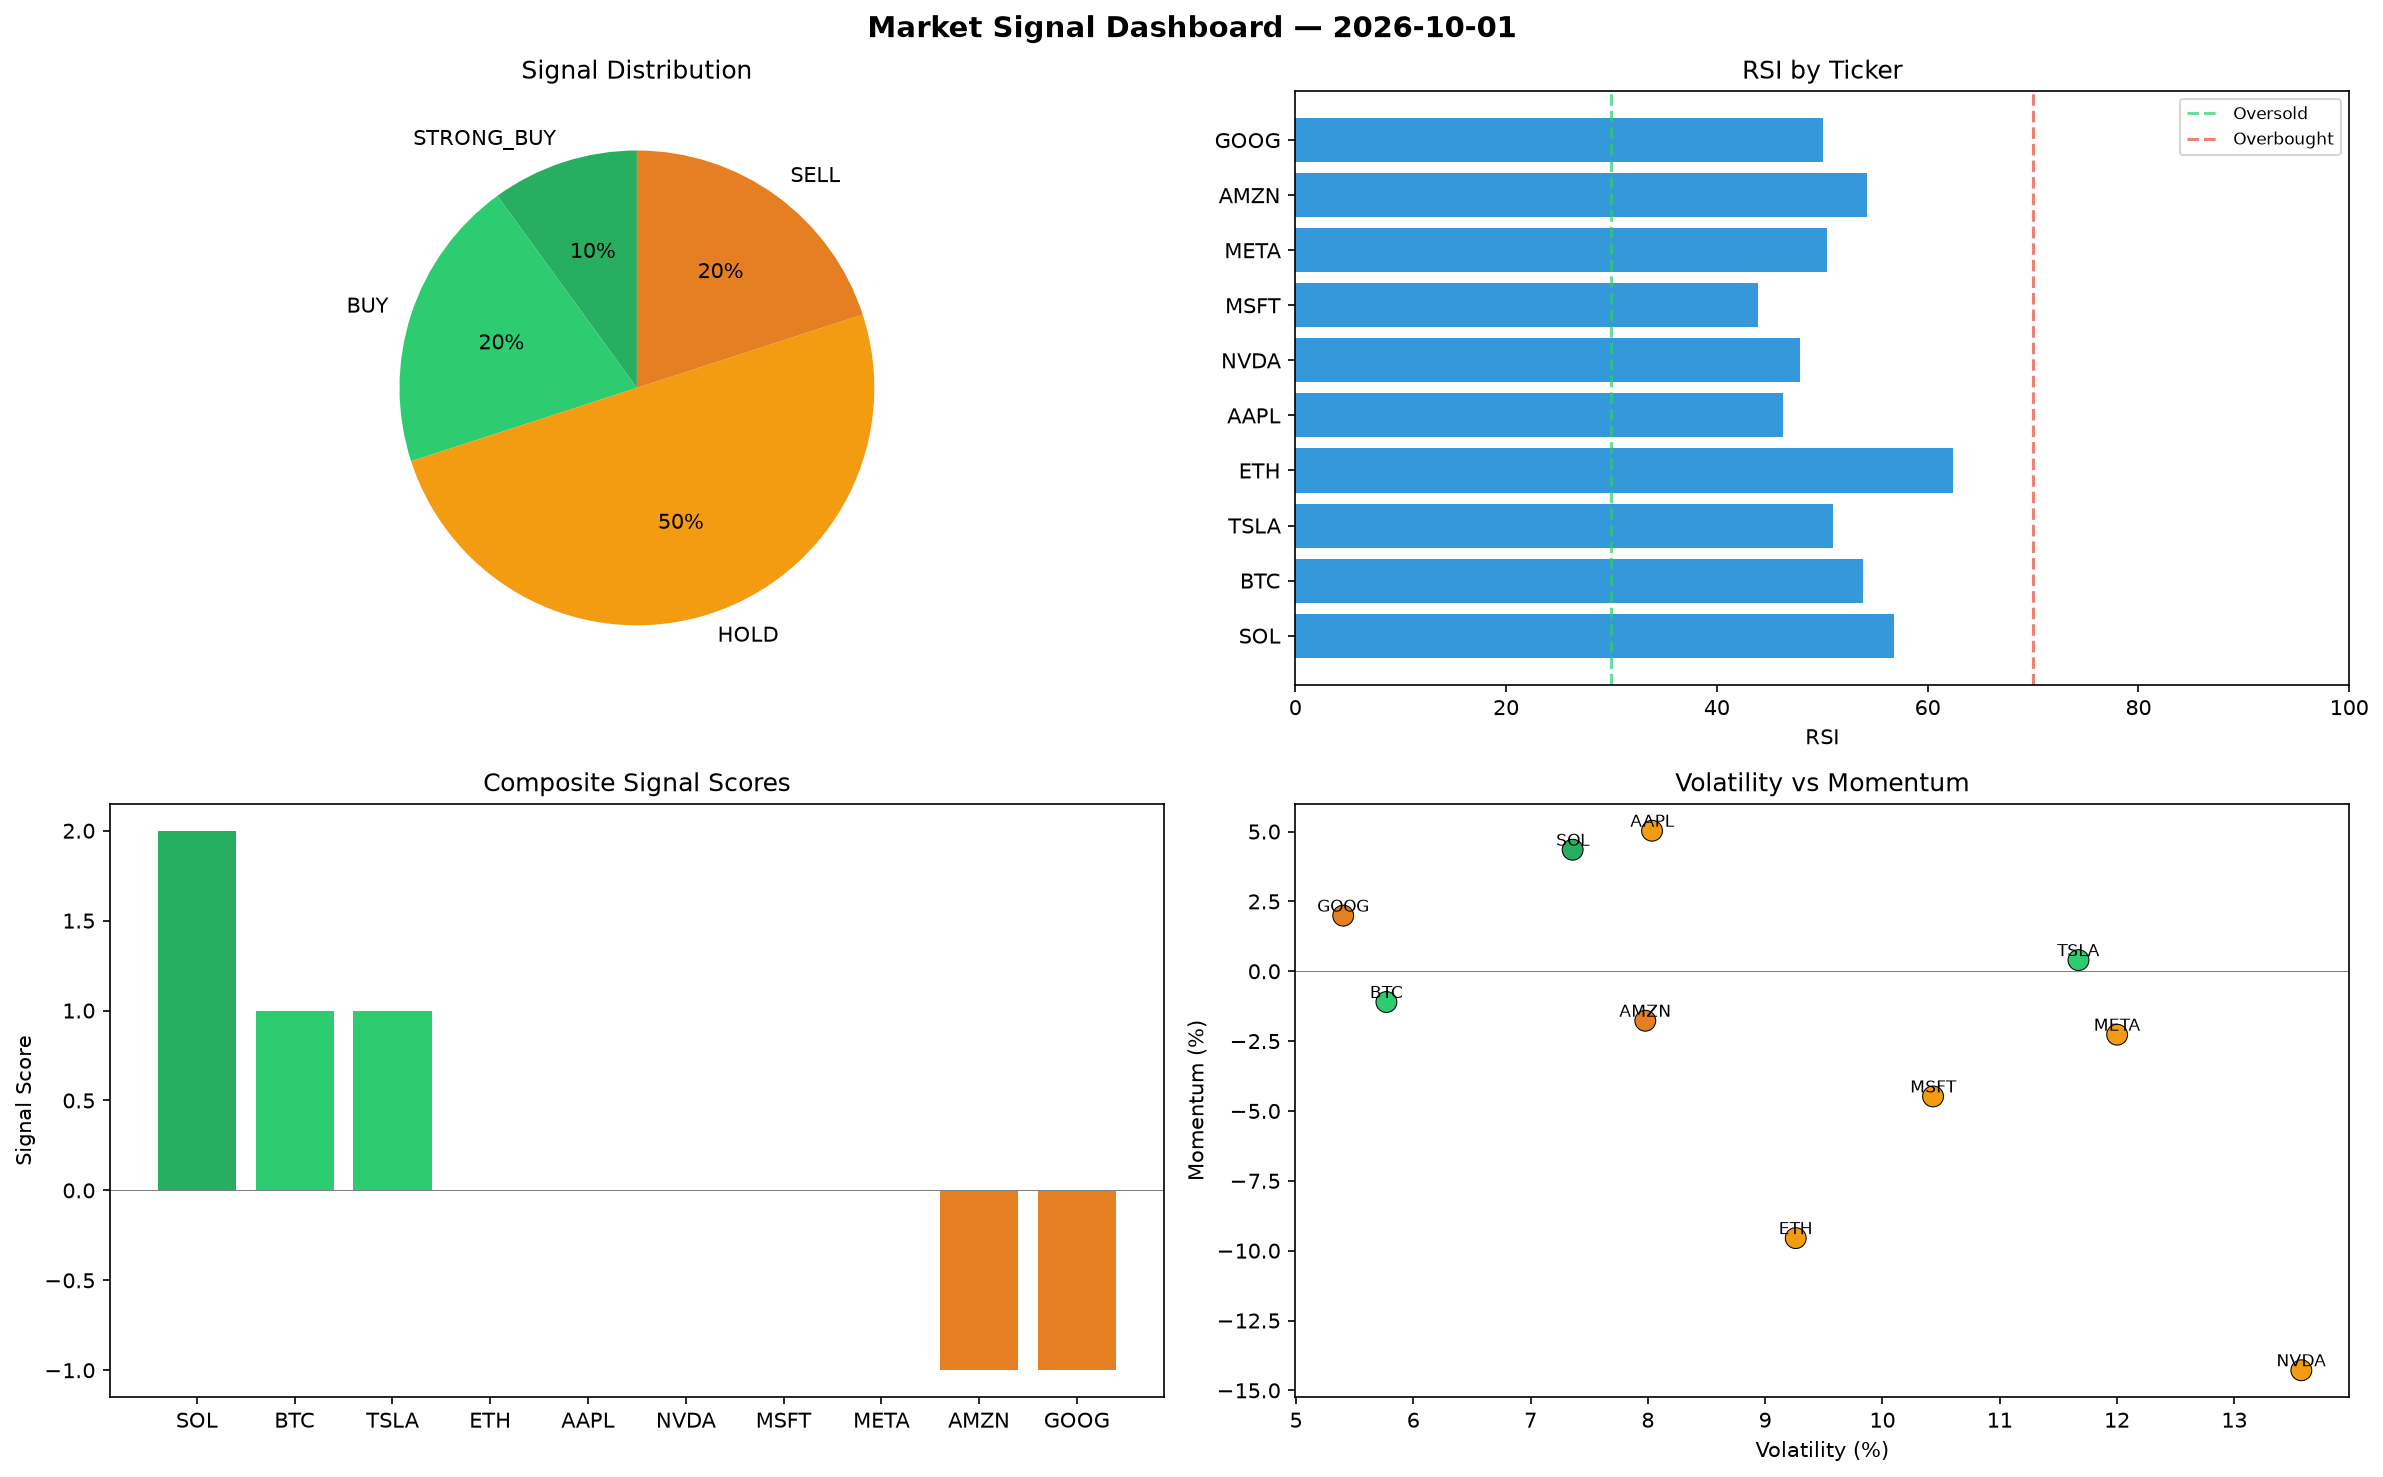
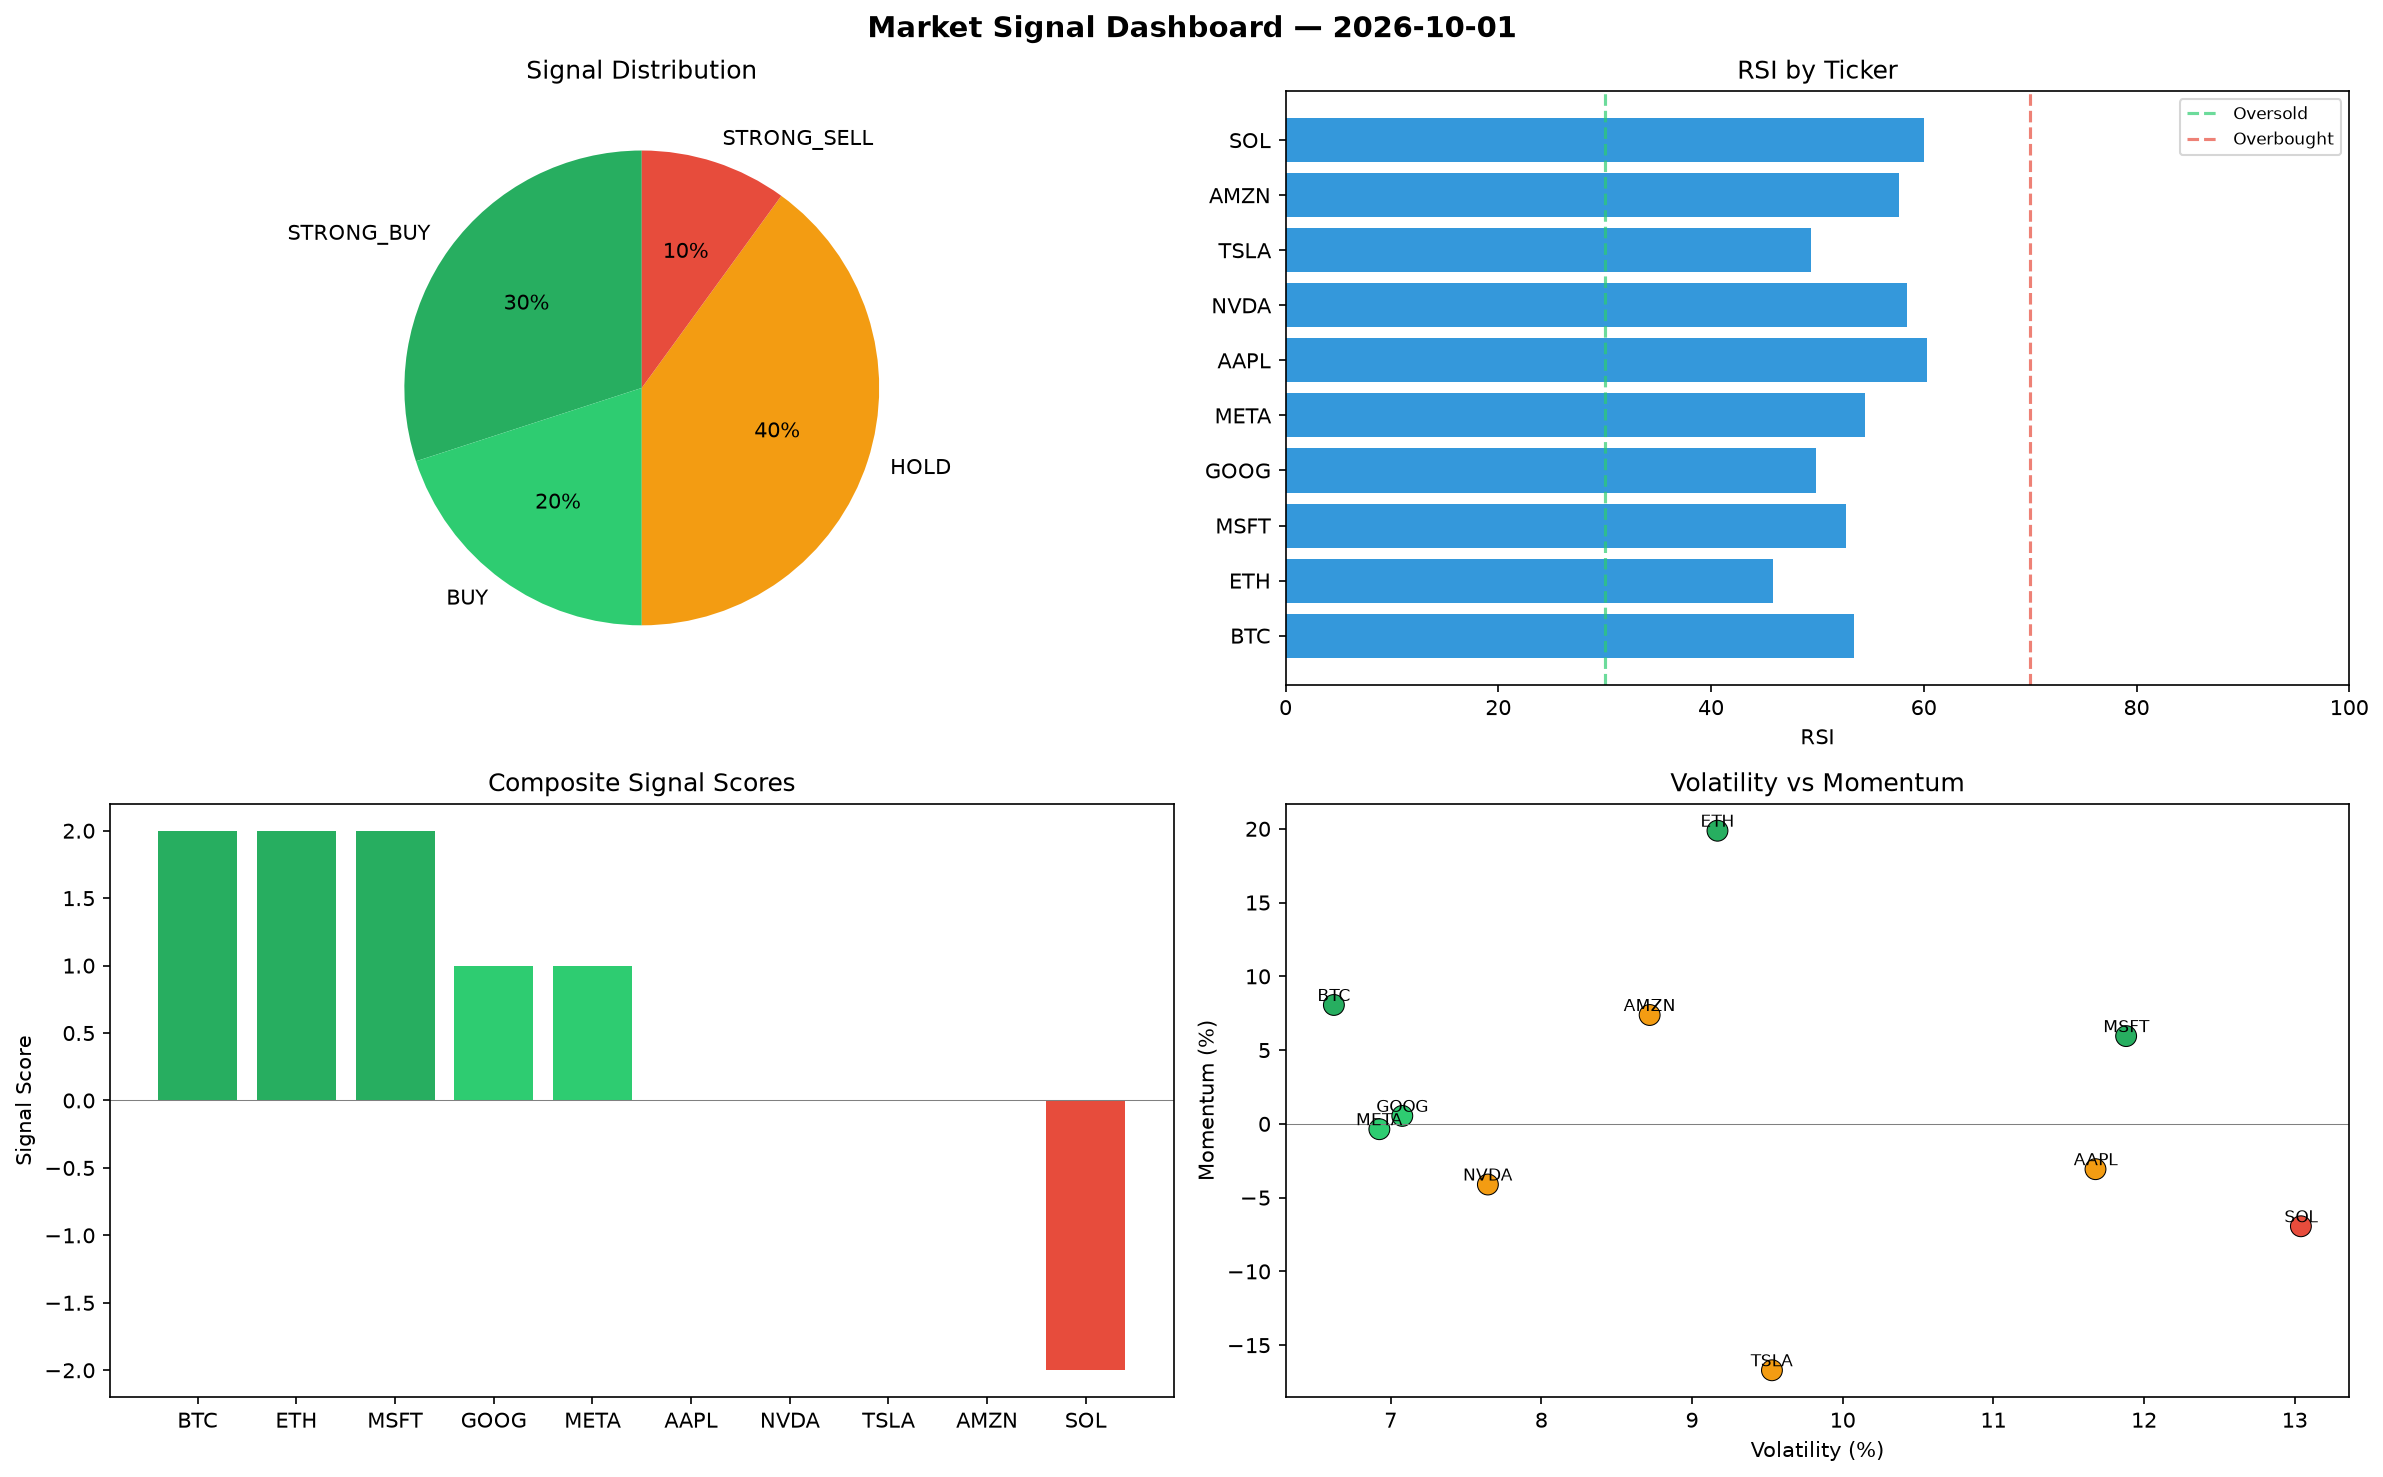
automated-bots: market signals 2026-10-01T15:33

diff --git a/logs/2026-10-01.md b/logs/2026-10-01.md
@@ -1,6 +1,6 @@
 # Market Signal Report — 2026-10-01
 
-**Run ID:** `47a843d456` | **Buy:** 3 | **Sell:** 2 | **Hold:** 5
+**Run ID:** `a630271f66` | **Buy:** 5 | **Sell:** 1 | **Hold:** 4
 
 ![Dashboard](2026-10-01_dashboard.png)
 
@@ -8,28 +8,28 @@
 
 | Ticker | Price | Signal | Score | RSI | Momentum | Confidence |
 |--------|-------|--------|-------|-----|----------|------------|
-| SOL | $210.23 | **STRONG_BUY** | 2 | 56.78 | 0.0435 | 0.5 |
-| BTC | $1668.47 | **BUY** | 1 | 53.87 | -0.011 | 0.25 |
-| TSLA | $1239.12 | **BUY** | 1 | 51.05 | 0.004 | 0.25 |
-| ETH | $2401.21 | **HOLD** | 0 | 62.44 | -0.0955 | 0.0 |
-| AAPL | $433.68 | **HOLD** | 0 | 46.24 | 0.0503 | 0.0 |
-| NVDA | $3001.12 | **HOLD** | 0 | 47.85 | -0.1428 | 0.0 |
-| MSFT | $2109.5 | **HOLD** | 0 | 43.89 | -0.0448 | 0.0 |
-| META | $4143.34 | **HOLD** | 0 | 50.45 | -0.0227 | 0.0 |
-| AMZN | $1085.43 | **SELL** | -1 | 54.26 | -0.0177 | 0.25 |
-| GOOG | $3399.91 | **SELL** | -1 | 50.06 | 0.0199 | 0.25 |
+| BTC | $1055.49 | **STRONG_BUY** | 2 | 53.48 | 0.0806 | 0.5 |
+| ETH | $4068.86 | **STRONG_BUY** | 2 | 45.82 | 0.1987 | 0.5 |
+| MSFT | $4149.25 | **STRONG_BUY** | 2 | 52.7 | 0.0595 | 0.5 |
+| GOOG | $4313.77 | **BUY** | 1 | 49.89 | 0.0054 | 0.25 |
+| META | $3657.65 | **BUY** | 1 | 54.44 | -0.0036 | 0.25 |
+| AAPL | $63.54 | **HOLD** | 0 | 60.34 | -0.0307 | 0.0 |
+| NVDA | $5076.06 | **HOLD** | 0 | 58.44 | -0.0411 | 0.0 |
+| TSLA | $3695.22 | **HOLD** | 0 | 49.36 | -0.167 | 0.0 |
+| AMZN | $2345.96 | **HOLD** | 0 | 57.66 | 0.0738 | 0.0 |
+| SOL | $4384.88 | **STRONG_SELL** | -2 | 59.99 | -0.0694 | 0.5 |
 
 ## Delta vs Yesterday
 
 | Ticker | Today | Yesterday | Price Change | Signal Changed |
 |--------|-------|-----------|-------------|----------------|
-| SOL | STRONG_BUY | STRONG_SELL | 📉 -92.66% | ⚠ YES |
-| BTC | BUY | STRONG_BUY | 📉 -64.98% | ⚠ YES |
-| TSLA | BUY | BUY | 📉 -66.06% | — |
-| ETH | HOLD | STRONG_SELL | 📉 -43.37% | ⚠ YES |
-| AAPL | HOLD | HOLD | 📉 -81.27% | — |
-| NVDA | HOLD | HOLD | 📈 1118.09% | — |
-| MSFT | HOLD | STRONG_SELL | 📉 -49.18% | ⚠ YES |
-| META | HOLD | STRONG_BUY | 📉 -15.86% | ⚠ YES |
-| AMZN | SELL | STRONG_BUY | 📉 -79.05% | ⚠ YES |
-| GOOG | SELL | STRONG_SELL | 📈 9.05% | ⚠ YES |
+| BTC | STRONG_BUY | STRONG_BUY | 📉 -77.85% | — |
+| ETH | STRONG_BUY | STRONG_SELL | 📉 -4.04% | ⚠ YES |
+| MSFT | STRONG_BUY | STRONG_SELL | 📉 -0.03% | ⚠ YES |
+| GOOG | BUY | STRONG_SELL | 📈 38.36% | ⚠ YES |
+| META | BUY | STRONG_BUY | 📉 -25.73% | ⚠ YES |
+| AAPL | HOLD | HOLD | 📉 -97.26% | — |
+| NVDA | HOLD | HOLD | 📈 1960.26% | — |
+| TSLA | HOLD | BUY | 📈 1.22% | ⚠ YES |
+| AMZN | HOLD | STRONG_BUY | 📉 -54.71% | ⚠ YES |
+| SOL | STRONG_SELL | STRONG_SELL | 📈 53.15% | — |
